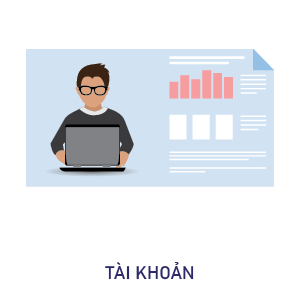
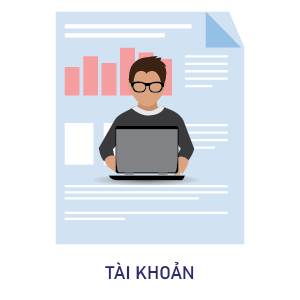
fixed launcher

diff --git a/src/Views/AdminLauncher/admin_launcher_style.css b/src/Views/AdminLauncher/admin_launcher_style.css
@@ -1,0 +1,33 @@
+#btnCustomer{
+    -fx-background-image: url('/Views/AdminLauncher/customer.png');
+}
+
+#btnOrder{
+    -fx-background-image: url('/Views/AdminLauncher/order.png');
+}
+
+#btnCheck{
+    -fx-background-image: url('/Views/AdminLauncher/check.png');
+}
+
+#btnAnalysis{
+    -fx-background-image: url('/Views/AdminLauncher/analysis.png');
+}
+
+#btnProduct{
+    -fx-background-image: url('/Views/AdminLauncher/product.png');
+}
+
+
+#btnAccount{
+    -fx-background-image: url('/Views/AdminLauncher/account.png');
+}
+.btn{
+    -fx-background-color: #FFFFFF;
+    -fx-background-radius: 30px;
+    -fx-background-size: 100%;
+}
+
+.btn:hover{
+    -fx-background-color: #d5f4f5;
+}

diff --git a/src/Controllers/AdminLaucher.java b/src/Controllers/AdminLaucher.java
@@ -1,2 +1,22 @@
-package Controllers;public class AdminLaucher {
+package Controllers;
+
+import Models.USERS;
+import javafx.fxml.FXML;
+import javafx.fxml.FXMLLoader;
+import javafx.scene.Node;
+import javafx.scene.Parent;
+import javafx.scene.Scene;
+import javafx.scene.control.*;
+import javafx.event.ActionEvent;
+import javafx.stage.Stage;
+
+public class AdminLaucher {
+    @FXML
+    private Button productBTN;
+
+    @FXML
+    public void initialize()    {
+        //productBTN.setStyle("-fx-background-image: url('/Views/AdminLauncher/customer.png')");
+    }
+
 }
